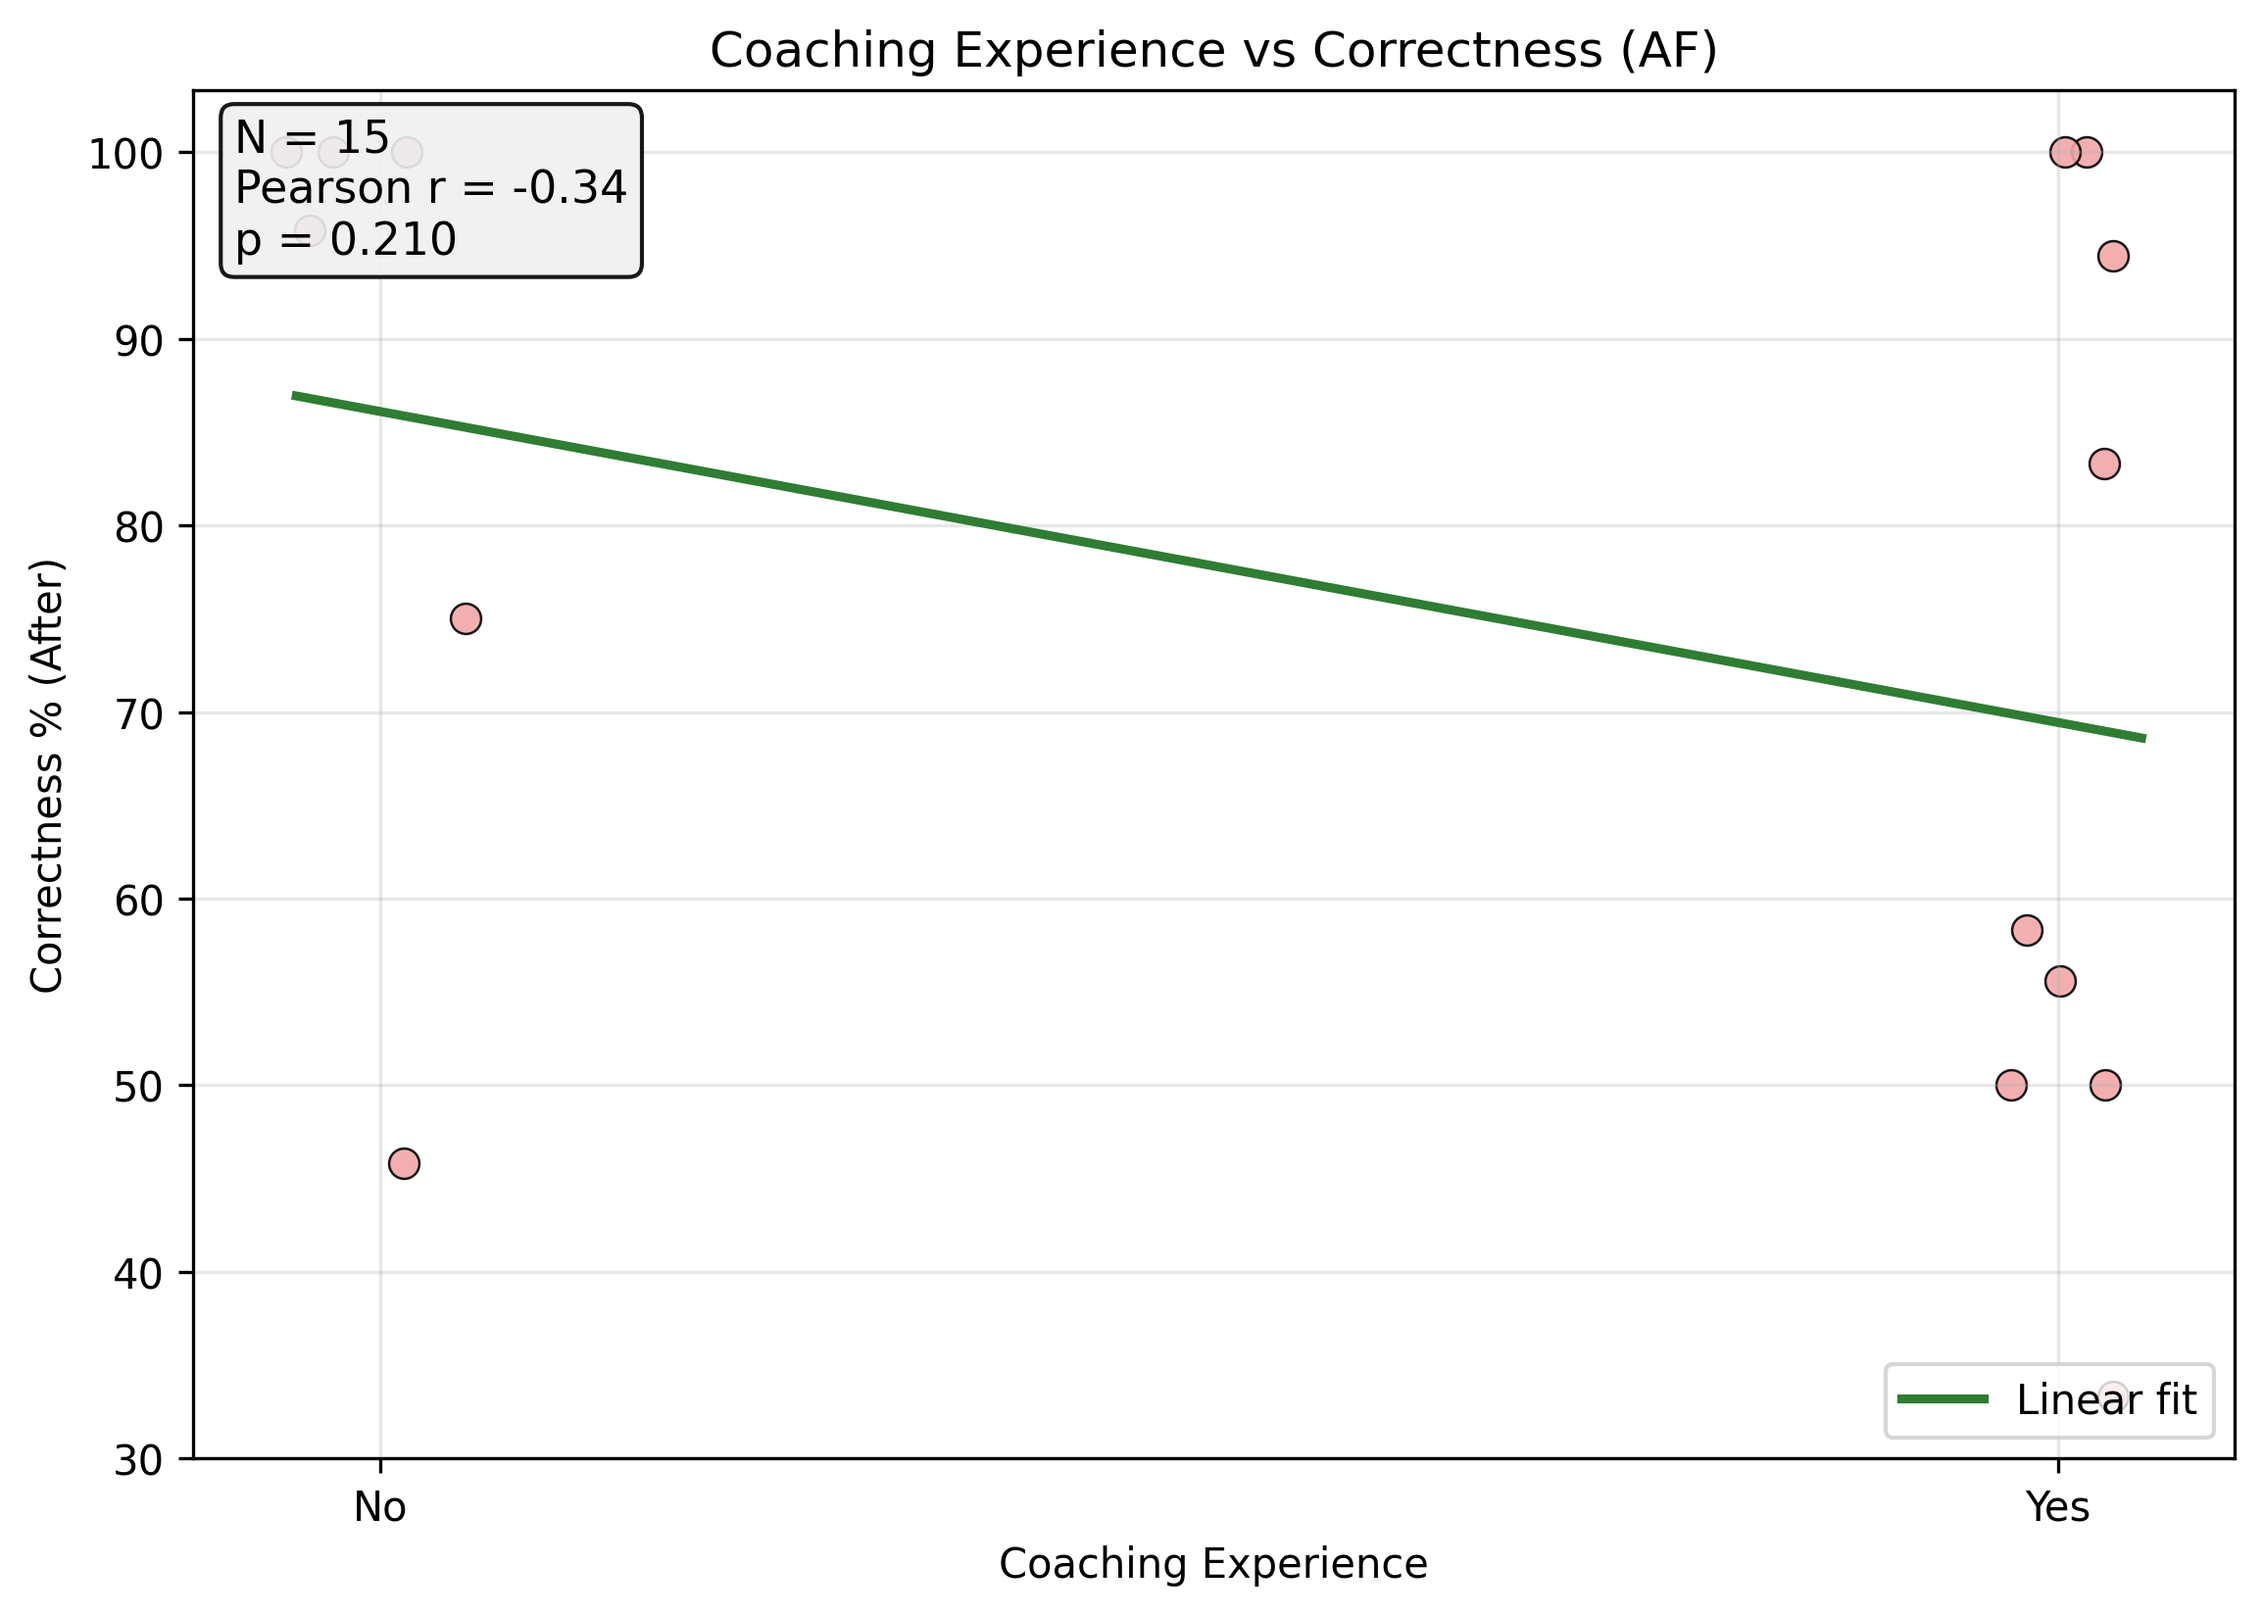
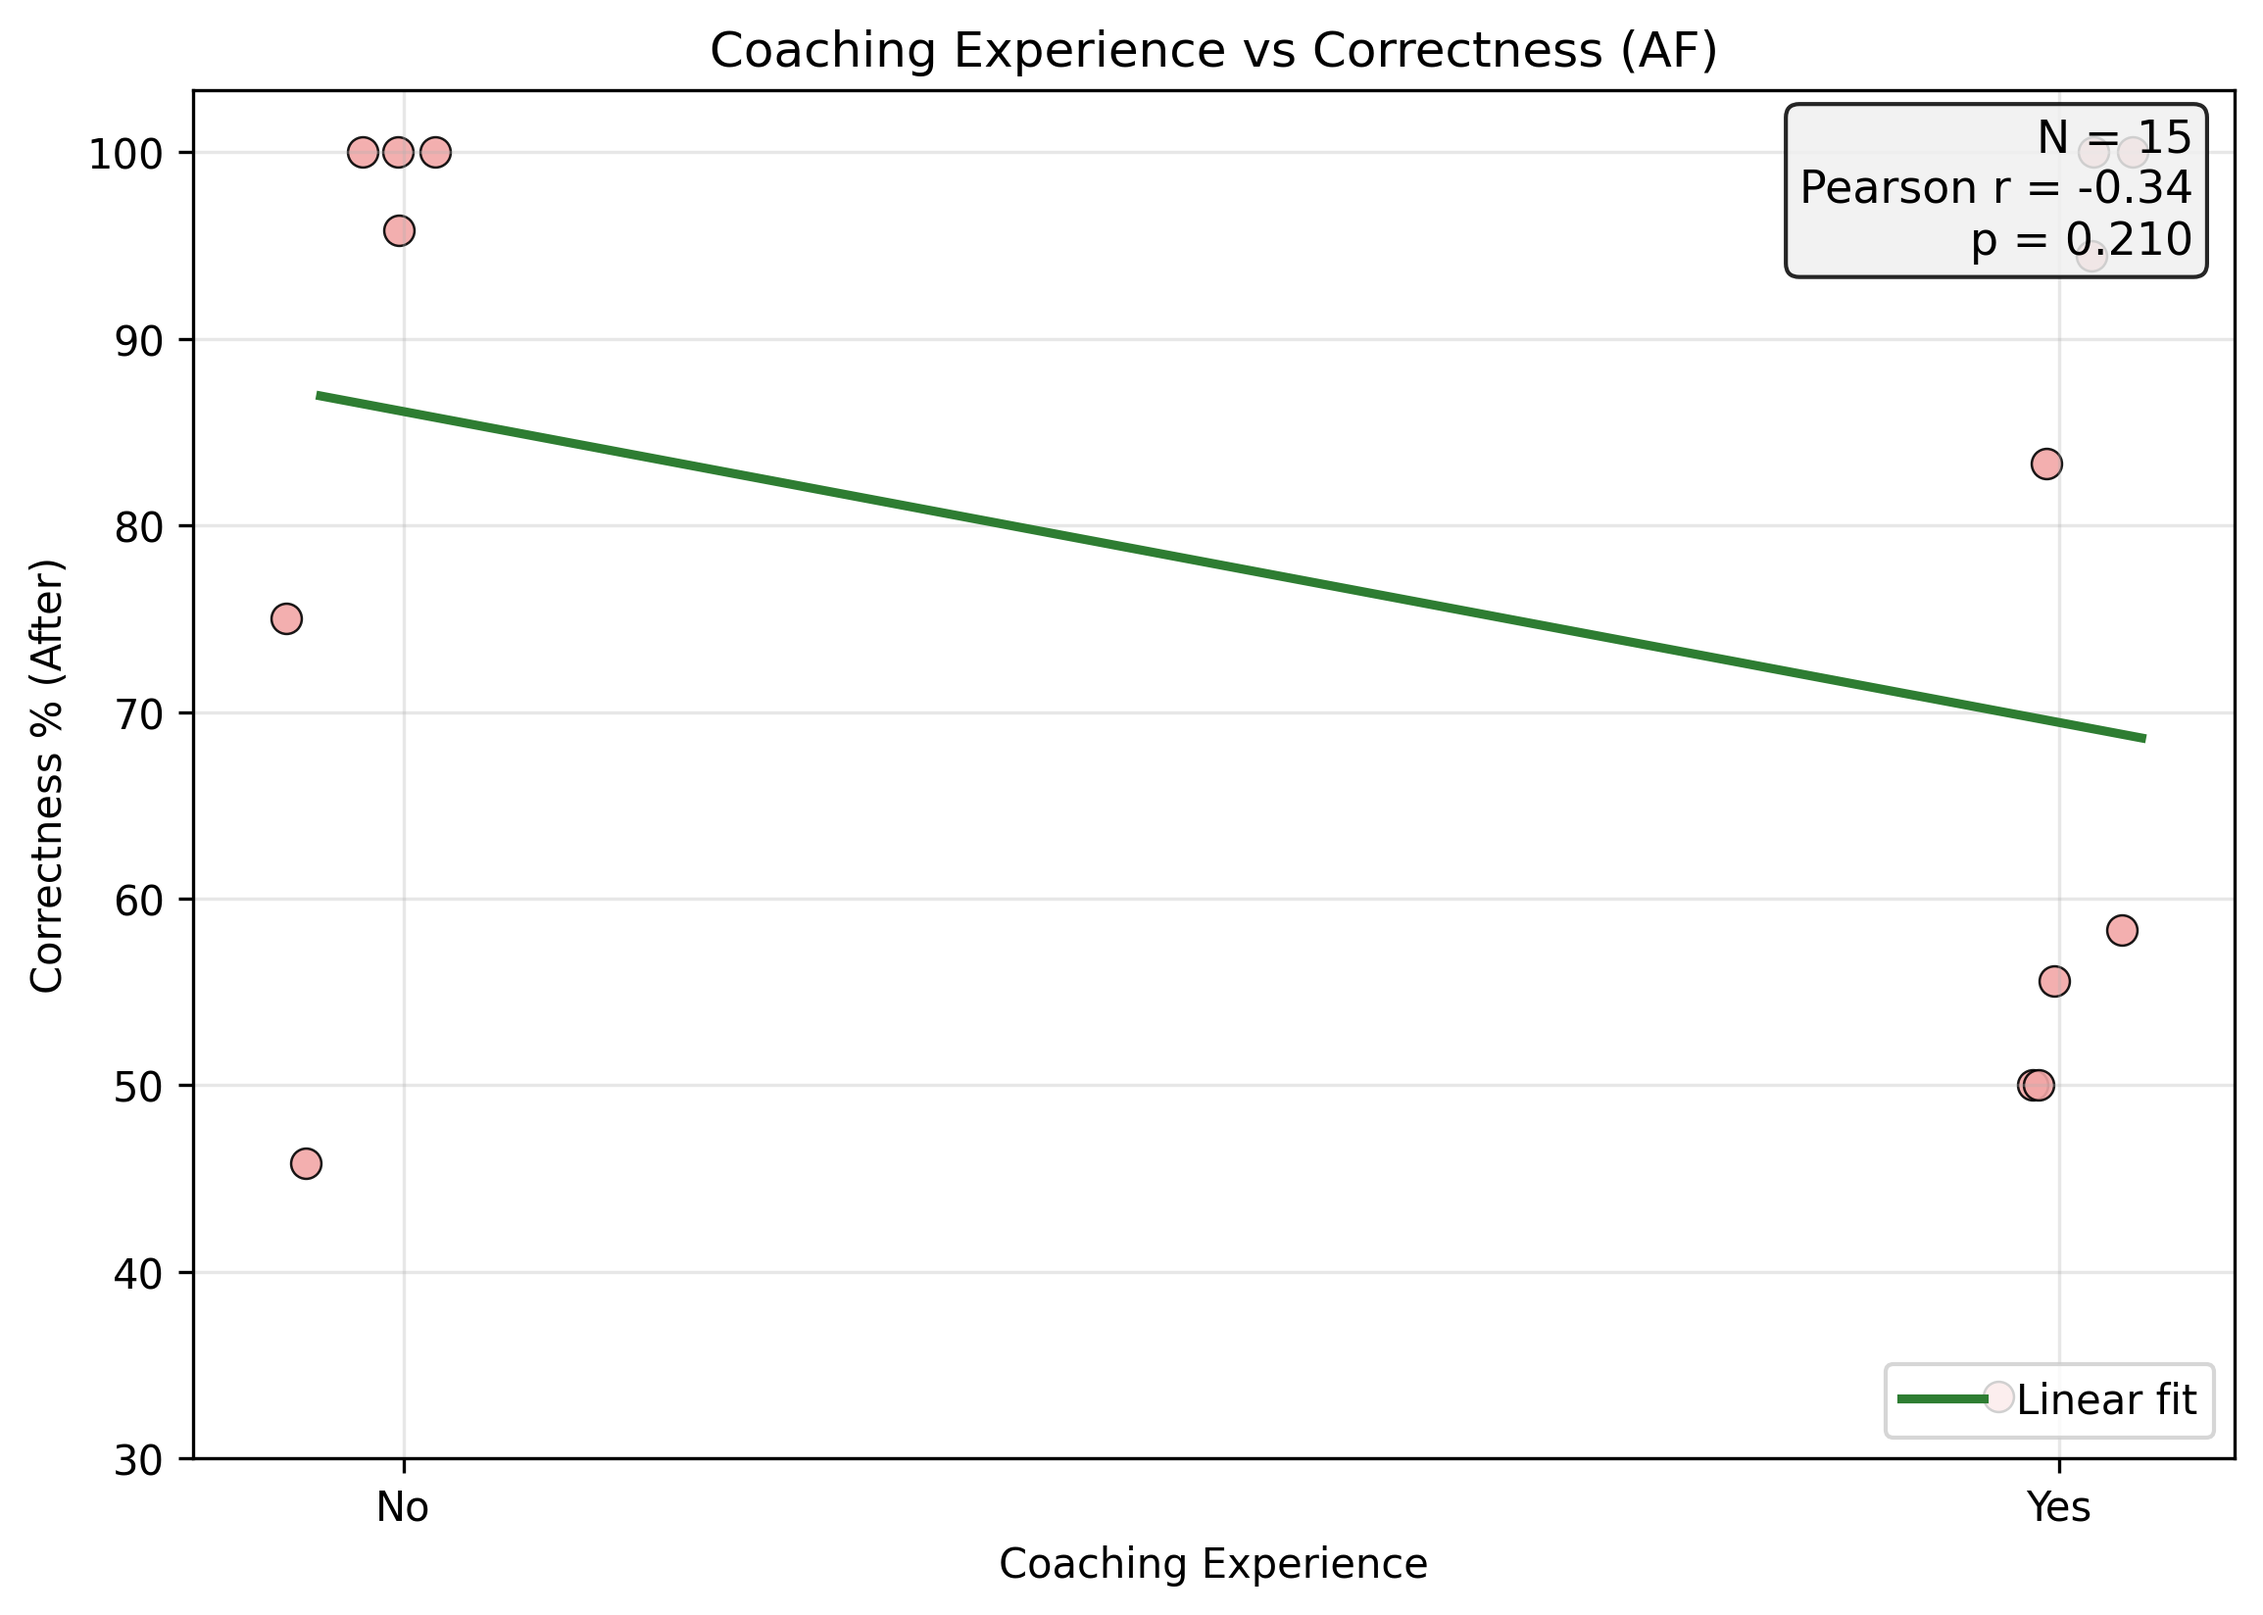
fix std dev issues

diff --git a/analyze_study_data.py b/analyze_study_data.py
@@ -16,6 +16,7 @@ Main study: analysis & visualization (colored)
 """
 
 import re
+import csv
 import sys
 import numpy as np
 import pandas as pd
@@ -212,7 +213,7 @@ def diverging_stacked_bar(ax, percentages, title, n_total):
         borderaxespad=0.0
     )
 
-def save_before_after_mean_bars(before_vals, after_vals, title, ylabel, filename, out_dir, colors=(PALE_RED, PALE_BLUE)):
+def save_before_after_mean_bars(before_vals, after_vals, title, ylabel, filename, out_dir, colors=(PALE_RED, PALE_BLUE), provided_std=None):
     """
     Save a simple bar chart comparing the mean Before vs After values with 95% CI error bars.
     Inputs are numeric-like series (percentages or likert points). Values are coerced to numeric.
@@ -220,25 +221,35 @@ def save_before_after_mean_bars(before_vals, after_vals, title, ylabel, filename
     b = pd.to_numeric(before_vals, errors='coerce').dropna()
     a = pd.to_numeric(after_vals, errors='coerce').dropna()
 
-    # compute means and 95% CI using t ~ 1.96 (approx for decent N)
-    def mean_ci(x):
+    # compute means; error bars will prefer provided std if available
+    def mean_only(x):
         if len(x) == 0:
-            return np.nan, np.nan
-        m = float(x.mean())
-        se = float(x.std(ddof=1) / np.sqrt(len(x))) if len(x) > 1 else 0.0
-        ci95 = 1.96 * se
-        return m, ci95
+            return np.nan
+        return float(x.mean())
 
-    mean_b, ci_b = mean_ci(b)
-    mean_a, ci_a = mean_ci(a)
+    mean_b = mean_only(b)
+    mean_a = mean_only(a)
 
     fig, ax = plt.subplots(figsize=(7.5, 5.5))
     x = np.arange(2)
     means = [mean_b, mean_a]
-    cis = [ci_b, ci_a]
+    if provided_std is not None:
+        # Use provided STD directly as error bars
+        std_b, std_a = provided_std
+        errs = [std_b if np.isfinite(std_b) else np.nan, std_a if np.isfinite(std_a) else np.nan]
+        err_label = "SD"
+    else:
+        # Fall back to 95% CI using sample SE if STD not provided
+        def ci_from_series(x):
+            if len(x) <= 1:
+                return 0.0
+            se = float(x.std(ddof=1) / np.sqrt(len(x)))
+            return 1.96 * se
+        errs = [ci_from_series(b), ci_from_series(a)]
+        err_label = "95% CI"
     palette = [colors[0], colors[1]]
 
-    ax.bar(x, means, yerr=cis, capsize=6, color=palette, edgecolor="black", linewidth=1.2)
+    ax.bar(x, means, yerr=errs, capsize=6, color=palette, edgecolor="black", linewidth=1.2)
     ax.set_xticks(x)
     ax.set_xticklabels([f"Before (N={len(b)})", f"After (N={len(a)})"])
     ax.set_ylabel(ylabel)
@@ -247,7 +258,7 @@ def save_before_after_mean_bars(before_vals, after_vals, title, ylabel, filename
 
     # Dynamic y-limit to prevent labels from going outside the frame
     finite_candidates = []
-    for val in [mean_b + (ci_b if not np.isnan(ci_b) else 0), mean_a + (ci_a if not np.isnan(ci_a) else 0)]:
+    for val in [mean_b + (errs[0] if not np.isnan(errs[0]) else 0), mean_a + (errs[1] if not np.isnan(errs[1]) else 0)]:
         if np.isfinite(val):
             finite_candidates.append(val)
     if len(b) > 0 and np.isfinite(b.max()):
@@ -264,8 +275,8 @@ def save_before_after_mean_bars(before_vals, after_vals, title, ylabel, filename
     margin = 0.02 * y_max
     for i, v in enumerate(means):
         if not np.isnan(v):
-            this_ci = cis[i] if (i < len(cis) and np.isfinite(cis[i])) else 0.0
-            desired = v + this_ci + offset
+            this_err = errs[i] if (i < len(errs) and np.isfinite(errs[i])) else 0.0
+            desired = v + this_err + offset
             if desired >= (y_max - margin):
                 label_y = y_max - margin
                 va = 'top'
@@ -273,6 +284,9 @@ def save_before_after_mean_bars(before_vals, after_vals, title, ylabel, filename
                 label_y = desired
                 va = 'bottom'
             ax.text(i, label_y, f"{v:.1f}", ha='center', va=va, fontsize=11)
+
+    # Subtitle to clarify error bar type
+    # ax.text(0.98, 0.02, f"Error bars: {err_label}", transform=ax.transAxes, ha='right', va='bottom', fontsize=9, color="#555")
 
     fig.tight_layout()
     fp = out_dir / filename
@@ -333,10 +347,10 @@ def save_scatter_with_trendline(x_vals, y_vals, title, xlabel, ylabel, filename,
         ax.set_xticks([0,1])
         ax.set_xticklabels(["No", "Yes"])
 
-    # Annotate N and Pearson
-    ax.text(0.02, 0.98, f"N = {len(x_clean)}\nPearson r = {pearson_r:.2f}\np = {pearson_p:.3f}",
-            transform=ax.transAxes, va="top", ha="left",
-            bbox=dict(boxstyle="round", facecolor="#f0f0f0", alpha=0.9), fontsize=11)
+    # Annotate N and Pearson (moved to top-right to avoid covering top-left points)
+    ax.text(0.98, 0.98, f"N = {len(x_clean)}\nPearson r = {pearson_r:.2f}\np = {pearson_p:.3f}",
+            transform=ax.transAxes, va="top", ha="right",
+            bbox=dict(boxstyle="round", facecolor="#f0f0f0", alpha=0.85), fontsize=11)
 
     if slope is not None:
         ax.legend(loc="lower right")
@@ -355,17 +369,104 @@ def find_col_by_prefix_and_phrase(columns, prefix, phrase):
             return c
     return None
 
+def parse_summary_rows(csv_path):
+    """
+    Parse AVG and STD rows from the raw CSV (kept at bottom), returning two dicts that map
+    "de-duplicated" column names (matching pandas' .1 suffix scheme) to float values.
+    """
+    with open(csv_path, "r", encoding="utf-8") as f:
+        lines = f.read().splitlines()
+
+    # Find header
+    header_idx = None
+    for i, line in enumerate(lines):
+        if line.startswith("Participant,"):
+            header_idx = i
+            break
+    if header_idx is None:
+        return {}, {}
+
+    # Use csv.reader to correctly parse quoted commas
+    header = next(csv.reader([lines[header_idx]]))
+
+    avg_vals = None
+    std_vals = None
+    for line in lines[header_idx+1:]:
+        if not line.strip():
+            continue
+        first_cell = next(csv.reader([line]))[0].strip()
+        if first_cell == "AVG":
+            avg_vals = next(csv.reader([line]))
+        elif first_cell == "STD":
+            std_vals = next(csv.reader([line]))
+        # stop if we've found both
+        if avg_vals is not None and std_vals is not None:
+            break
+
+    def build_map(values):
+        if values is None:
+            return {}
+        # Normalize numeric strings: strip % and coerce
+        vals = []
+        for v in values:
+            v = v.strip()
+            if v.endswith('%'):
+                v = v[:-1]
+            try:
+                vals.append(float(v))
+            except Exception:
+                vals.append(np.nan)
+        # Map to deduped column names
+        name_counts = {}
+        out = {}
+        for idx, base in enumerate(header):
+            key = base
+            if base in name_counts:
+                suffix = name_counts[base]
+                key = f"{base}.{suffix}"
+                name_counts[base] = suffix + 1
+            else:
+                name_counts[base] = 1
+            # Skip row labels like AVG/STD first cell
+            if idx == 0:
+                continue
+            if idx < len(vals):
+                out[key] = vals[idx]
+        return out
+
+    return build_map(avg_vals), build_map(std_vals)
+
 # ---------- Main ----------
 def main(csv_path):
     df = read_study_csv(csv_path)
+    avg_map, std_map = parse_summary_rows(csv_path)
 
     # 1) Improvements
-    ad_bf = to_pct_series(df["% score BF"])
-    ad_af = to_pct_series(df["% score AF"])
-    en_bf = to_pct_series(df["% score BF.1"])
-    en_af = to_pct_series(df["% score AF.1"])
+    ad_bf = to_pct_series(df["% score BF"])          # Correctness % BF
+    ad_af = to_pct_series(df["% score AF"])          # Correctness % AF
+    en_bf = to_pct_series(df["% score BF.1"])        # Completeness % BF
+    en_af = to_pct_series(df["% score AF.1"])        # Completeness % AF
+
+    # Compute deltas, then mask with CSV-provided diff columns if present (to exclude cases like 100% BF and AF)
     correctness_improve = ad_af - ad_bf
     completeness_improve = en_af - en_bf
+
+    # Use the CSV diff columns to determine valid N for improvements
+    corr_diff_col = df.columns[df.columns.get_loc("% score AF") + 1] if "% score AF" in df.columns else None
+    comp_diff_col = df.columns[df.columns.get_loc("% score AF.1") + 1] if "% score AF.1" in df.columns else None
+
+    # Fallback names commonly seen: 'diff' and 'diff.1'
+    if corr_diff_col is None and "diff" in df.columns:
+        corr_diff_col = "diff"
+    if comp_diff_col is None and "diff.1" in df.columns:
+        comp_diff_col = "diff.1"
+
+    if corr_diff_col and corr_diff_col in df.columns:
+        corr_diff_vals = to_pct_series(df[corr_diff_col])
+        correctness_improve = correctness_improve.where(corr_diff_vals.notna())
+    if comp_diff_col and comp_diff_col in df.columns:
+        comp_diff_vals = to_pct_series(df[comp_diff_col])
+        completeness_improve = completeness_improve.where(comp_diff_vals.notna())
 
     out_dir = Path("outputs")
     out_dir.mkdir(exist_ok=True, parents=True)
@@ -385,20 +486,22 @@ def main(csv_path):
     # New: Before vs After bar charts (means with 95% CI)
     save_before_after_mean_bars(
         ad_bf, ad_af,
-        title="Correctness: Before vs After (mean ± 95% CI)",
+        title="Correctness: Before vs After (mean ± SD)",
         ylabel="Percentage",
         filename="correctness_before_after_bar.png",
         out_dir=out_dir,
-        colors=(PALE_RED, PALE_BLUE)
+        colors=(PALE_RED, PALE_BLUE),
+        provided_std=(std_map.get("% score BF", np.nan), std_map.get("% score AF", np.nan))
     )
 
     save_before_after_mean_bars(
         en_bf, en_af,
-        title="Completeness: Before vs After (mean ± 95% CI)",
+        title="Completeness: Before vs After (mean ± SD)",
         ylabel="Percentage",
         filename="completeness_before_after_bar.png",
         out_dir=out_dir,
-        colors=(PALE_RED, PALE_BLUE)
+        colors=(PALE_RED, PALE_BLUE),
+        provided_std=(std_map.get("% score BF.1", np.nan), std_map.get("% score AF.1", np.nan))
     )
 
     # 2) Comparative Likert (diff.2 & diff.3)
@@ -434,21 +537,23 @@ def main(csv_path):
     if q1_bf_col in df.columns and q1_af_col in df.columns:
         save_before_after_mean_bars(
             df[q1_bf_col], df[q1_af_col],
-            title="Comparative Likert: Decision flow learned — Before vs After (mean ± 95% CI)",
+            title="Comparative Likert: Decision flow learned — Before vs After (mean ± SD)",
             ylabel="Likert (1–7)",
             filename="comparative_likert_q1_before_after_bar.png",
             out_dir=out_dir,
-            colors=(PALE_RED, PALE_BLUE)
+            colors=(PALE_RED, PALE_BLUE),
+            provided_std=(std_map.get(q1_bf_col, np.nan), std_map.get(q1_af_col, np.nan))
         )
 
     if q2_bf_col in df.columns and q2_af_col in df.columns:
         save_before_after_mean_bars(
             df[q2_bf_col], df[q2_af_col],
-            title="Comparative Likert: Learning good enough to teach — Before vs After (mean ± 95% CI)",
+            title="Comparative Likert: Learning good enough to teach — Before vs After (mean ± SD)",
             ylabel="Likert (1–7)",
             filename="comparative_likert_q2_before_after_bar.png",
             out_dir=out_dir,
-            colors=(PALE_RED, PALE_BLUE)
+            colors=(PALE_RED, PALE_BLUE),
+            provided_std=(std_map.get(q2_bf_col, np.nan), std_map.get(q2_af_col, np.nan))
         )
 
     # 3) Non-comparative Likert → diverging stacked bars
